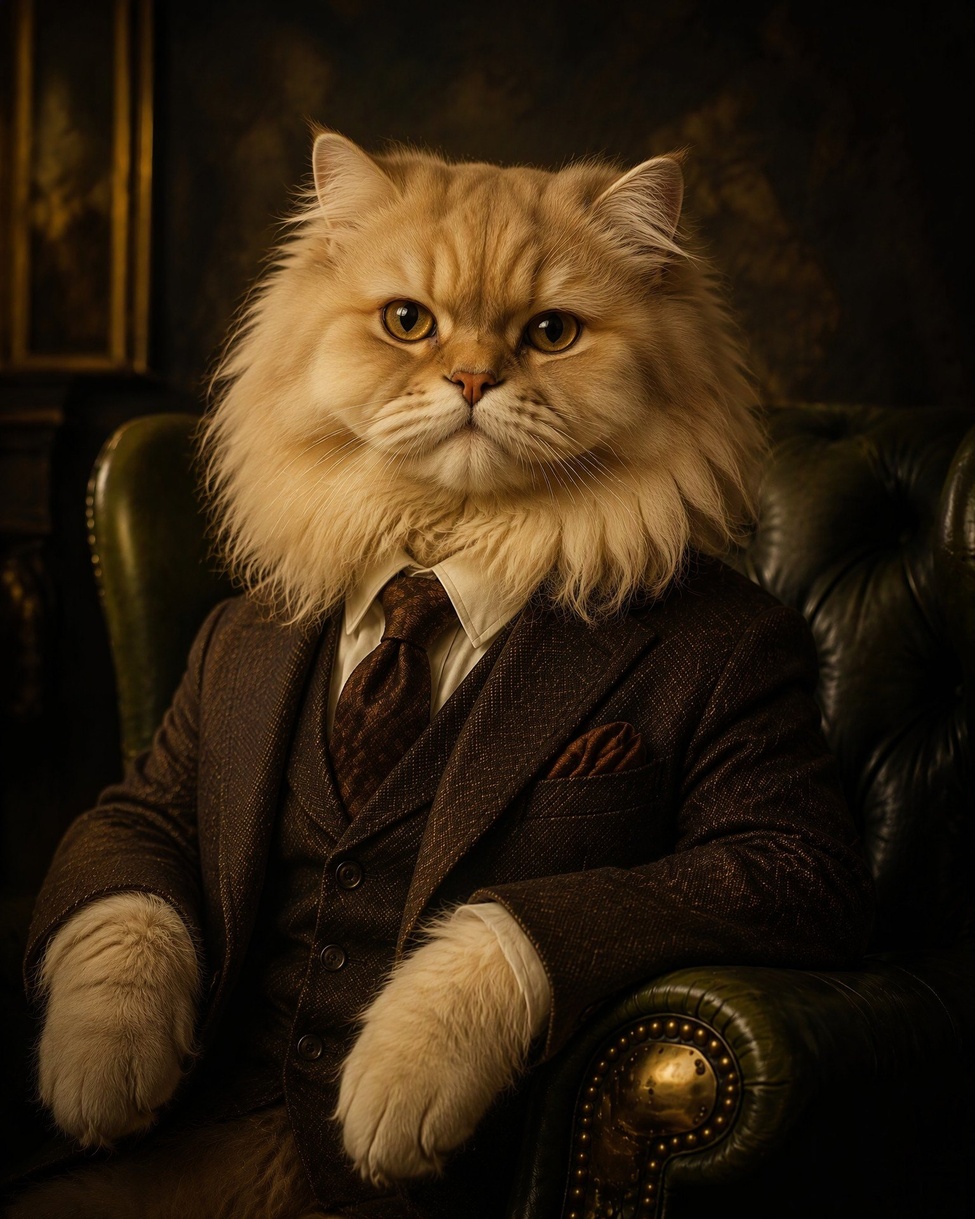
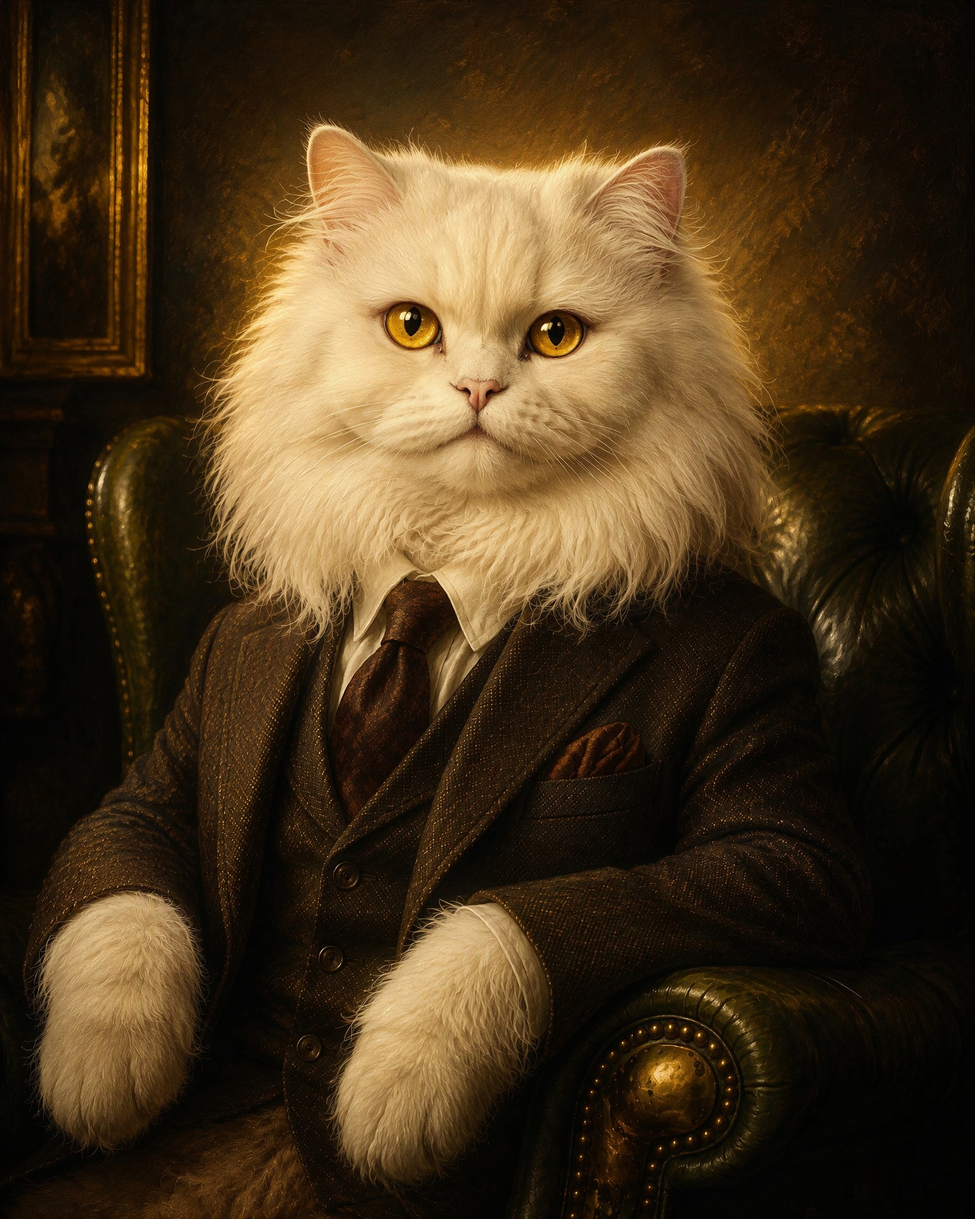
img: softer white Sol portrait with warm glass eyes

diff --git a/about.html b/about.html
@@ -127,7 +127,7 @@
         <p>Wellness escapes and cultural journeys, music festivals and sporting events, gatherings in extraordinary places: travel is the thread that draws the circle together. The connections made along the way are what make it rare. Our ambition is simple to say and difficult to achieve: a global circle of people who value exceptional experiences, genuine friendships, and the quiet pleasure of being among their own.</p>
         <div class="sol-note">
           <figure class="sol-portrait">
-            <img src="/assets/img/story-sol.jpg?v=2ac1dcb3" alt="Sol, a regal golden-white Persian cat and founding chairman of Solace, seated in his leather armchair" loading="lazy">
+            <img src="/assets/img/story-sol.jpg?v=5cdf4334" alt="Sol, a regal golden-white Persian cat and founding chairman of Solace, seated in his leather armchair" loading="lazy">
           </figure>
           <div class="sol-text">
             <p class="eyebrow" style="margin-bottom:18px">The Founding Character</p>
